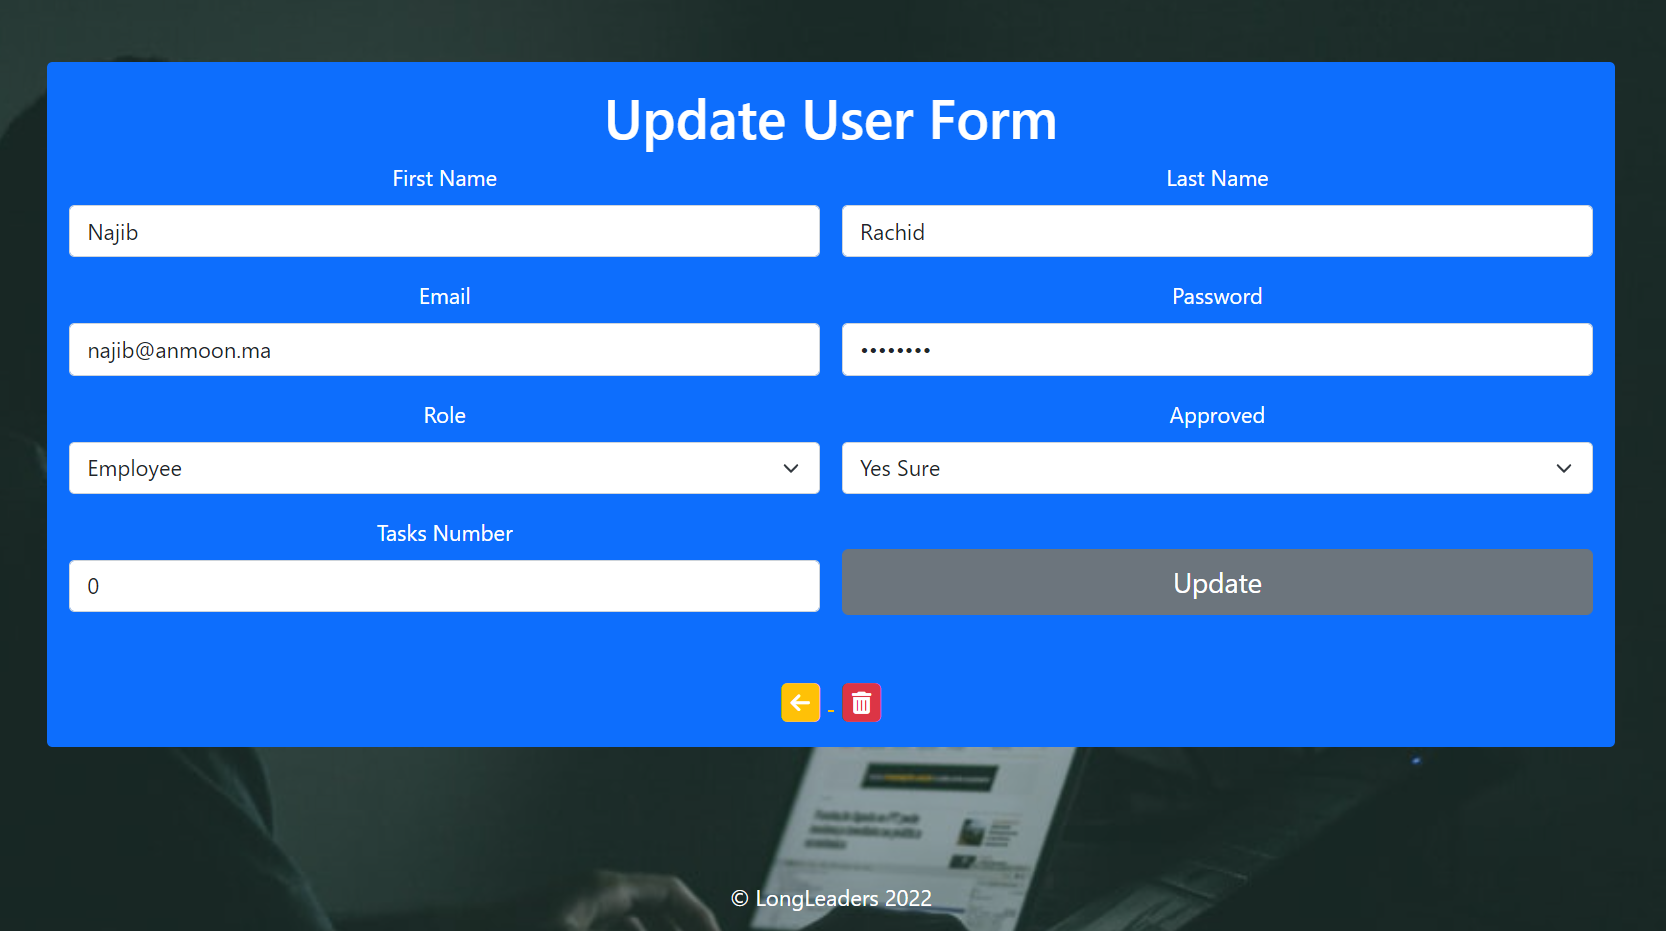
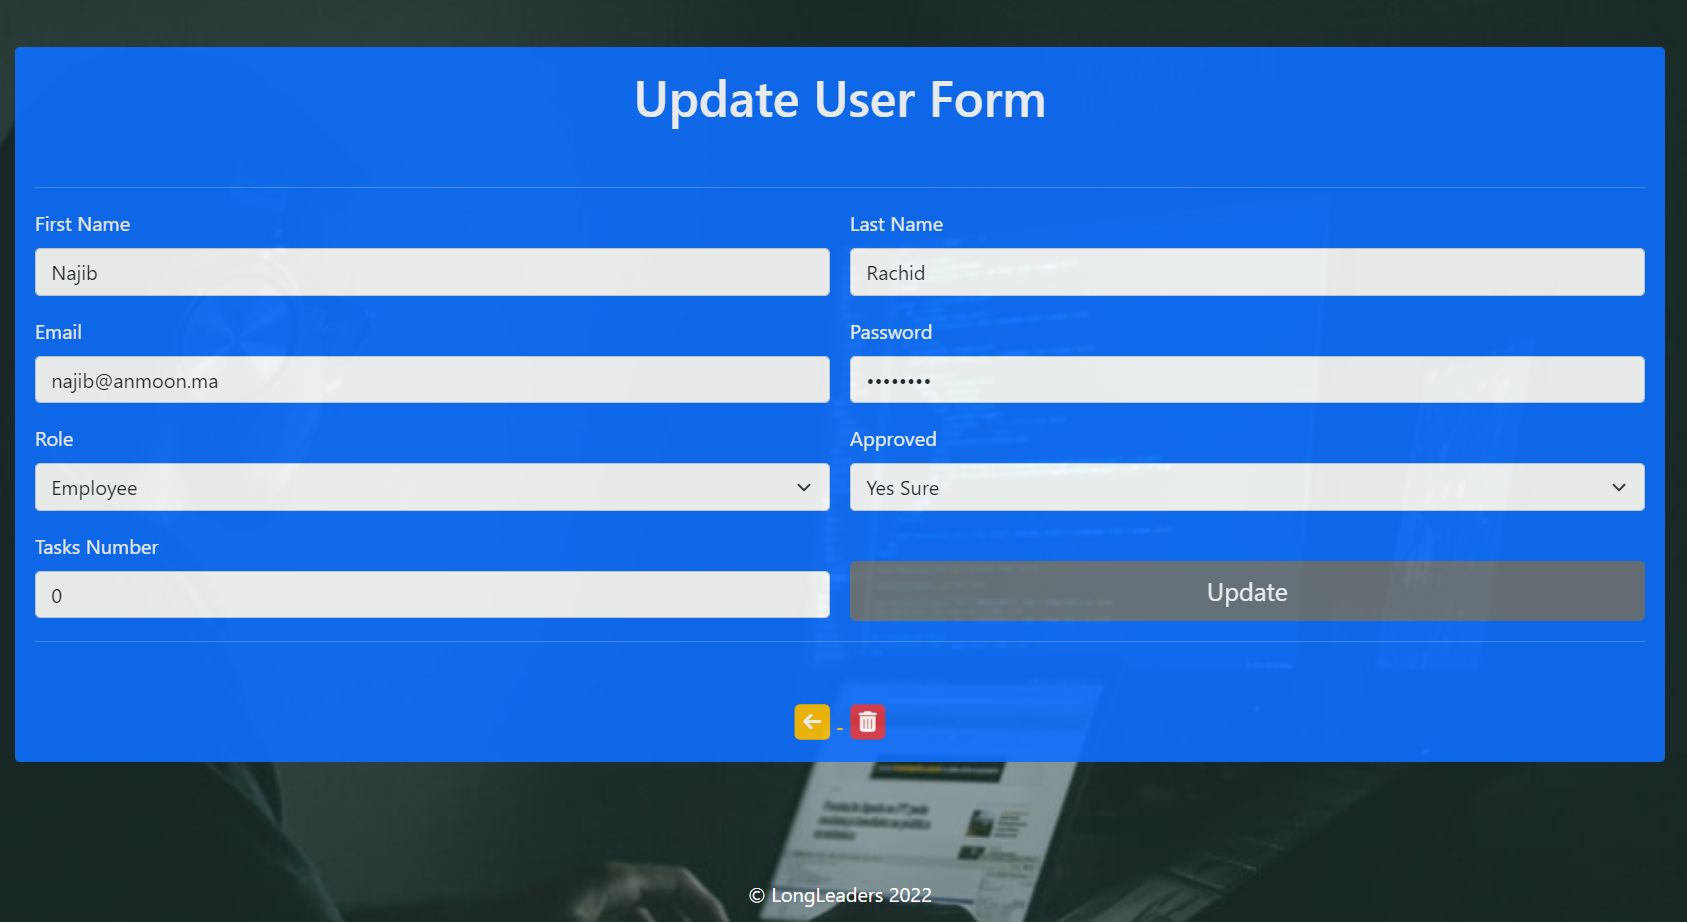
fix styling issues brief 10

diff --git a/brief10-employees-manager/src/main/resources/templates/dashboard.html b/brief10-employees-manager/src/main/resources/templates/dashboard.html
@@ -124,11 +124,11 @@ text-decoration:none;
         </div>   
     </div>
 
-    <div class="container bg-dark rounded-3 border border-white opacity-75 p-2 text-center">
+    <div class="container bg-dark rounded-3 border border-white opacity-75 p-2 text-center" style="opacity:.9">
         <h2 class="text-white" ><i class="fa-solid fa-users my-2"></i> Manage Employees</h2>
         <hr>
         <div class="container bootstrap snippets bootdey">
-        <div class="mb-2 text-start ms-3">
+        <div class="mb-2 text-start">
    <a th:href="${'?ACTION=add'}" class="btn btn-labeled btn-primary">
              <i class="fa-solid fa-user-plus me-2"></i> Add Employee
    </a>
@@ -151,7 +151,7 @@ text-decoration:none;
                                     <tbody>
                                         <tr   th:each="employee : ${employees}" >
                                             <td>
-                                                <img src="../img/avatar.jpg" alt="">
+                                                <img src="../img/avatar.jpg" alt="avatar" class="rounded-3 border border-secondary">
                                                 <a th:href="${'?ACTION=view&id='+employee.id}" th:text="${employee.fullName}" href="#" class="user-link"></a>
                                                 <span th:text="${employee.role}" class="user-subhead"></span>
                                             </td>

diff --git a/brief10-employees-manager/src/main/resources/templates/form.html b/brief10-employees-manager/src/main/resources/templates/form.html
@@ -26,10 +26,11 @@ min-height: calc(100vh - 50px);
     
     <main>
     
-	<div align="center" class="container bg-primary p-3 rounded-2">
-		<h1 th:text="${type+' User Form'}"></h1>
+	<div align="center" class="container bg-primary p-3 rounded-2" style="opacity:.9">
+		<h1 class="mb-5" th:text="${type+' User Form'}"></h1>
+		<hr>
 		
-		<form action="users" method="post" class="row g-3">
+		<form action="users" method="post" class="row g-3 text-start">
 		    <input th:value="${user!=null ? user.id : 0}" name="user_id" type="hidden" class="form-control" id="userId" th:disabled="${type eq 'Read'}">
 		
   <div class="col-md-6">
@@ -73,6 +74,7 @@ min-height: calc(100vh - 50px);
   </div>
   
 </form>
+		<hr>
 
     <div class="col-md-12 mt-5">
     
